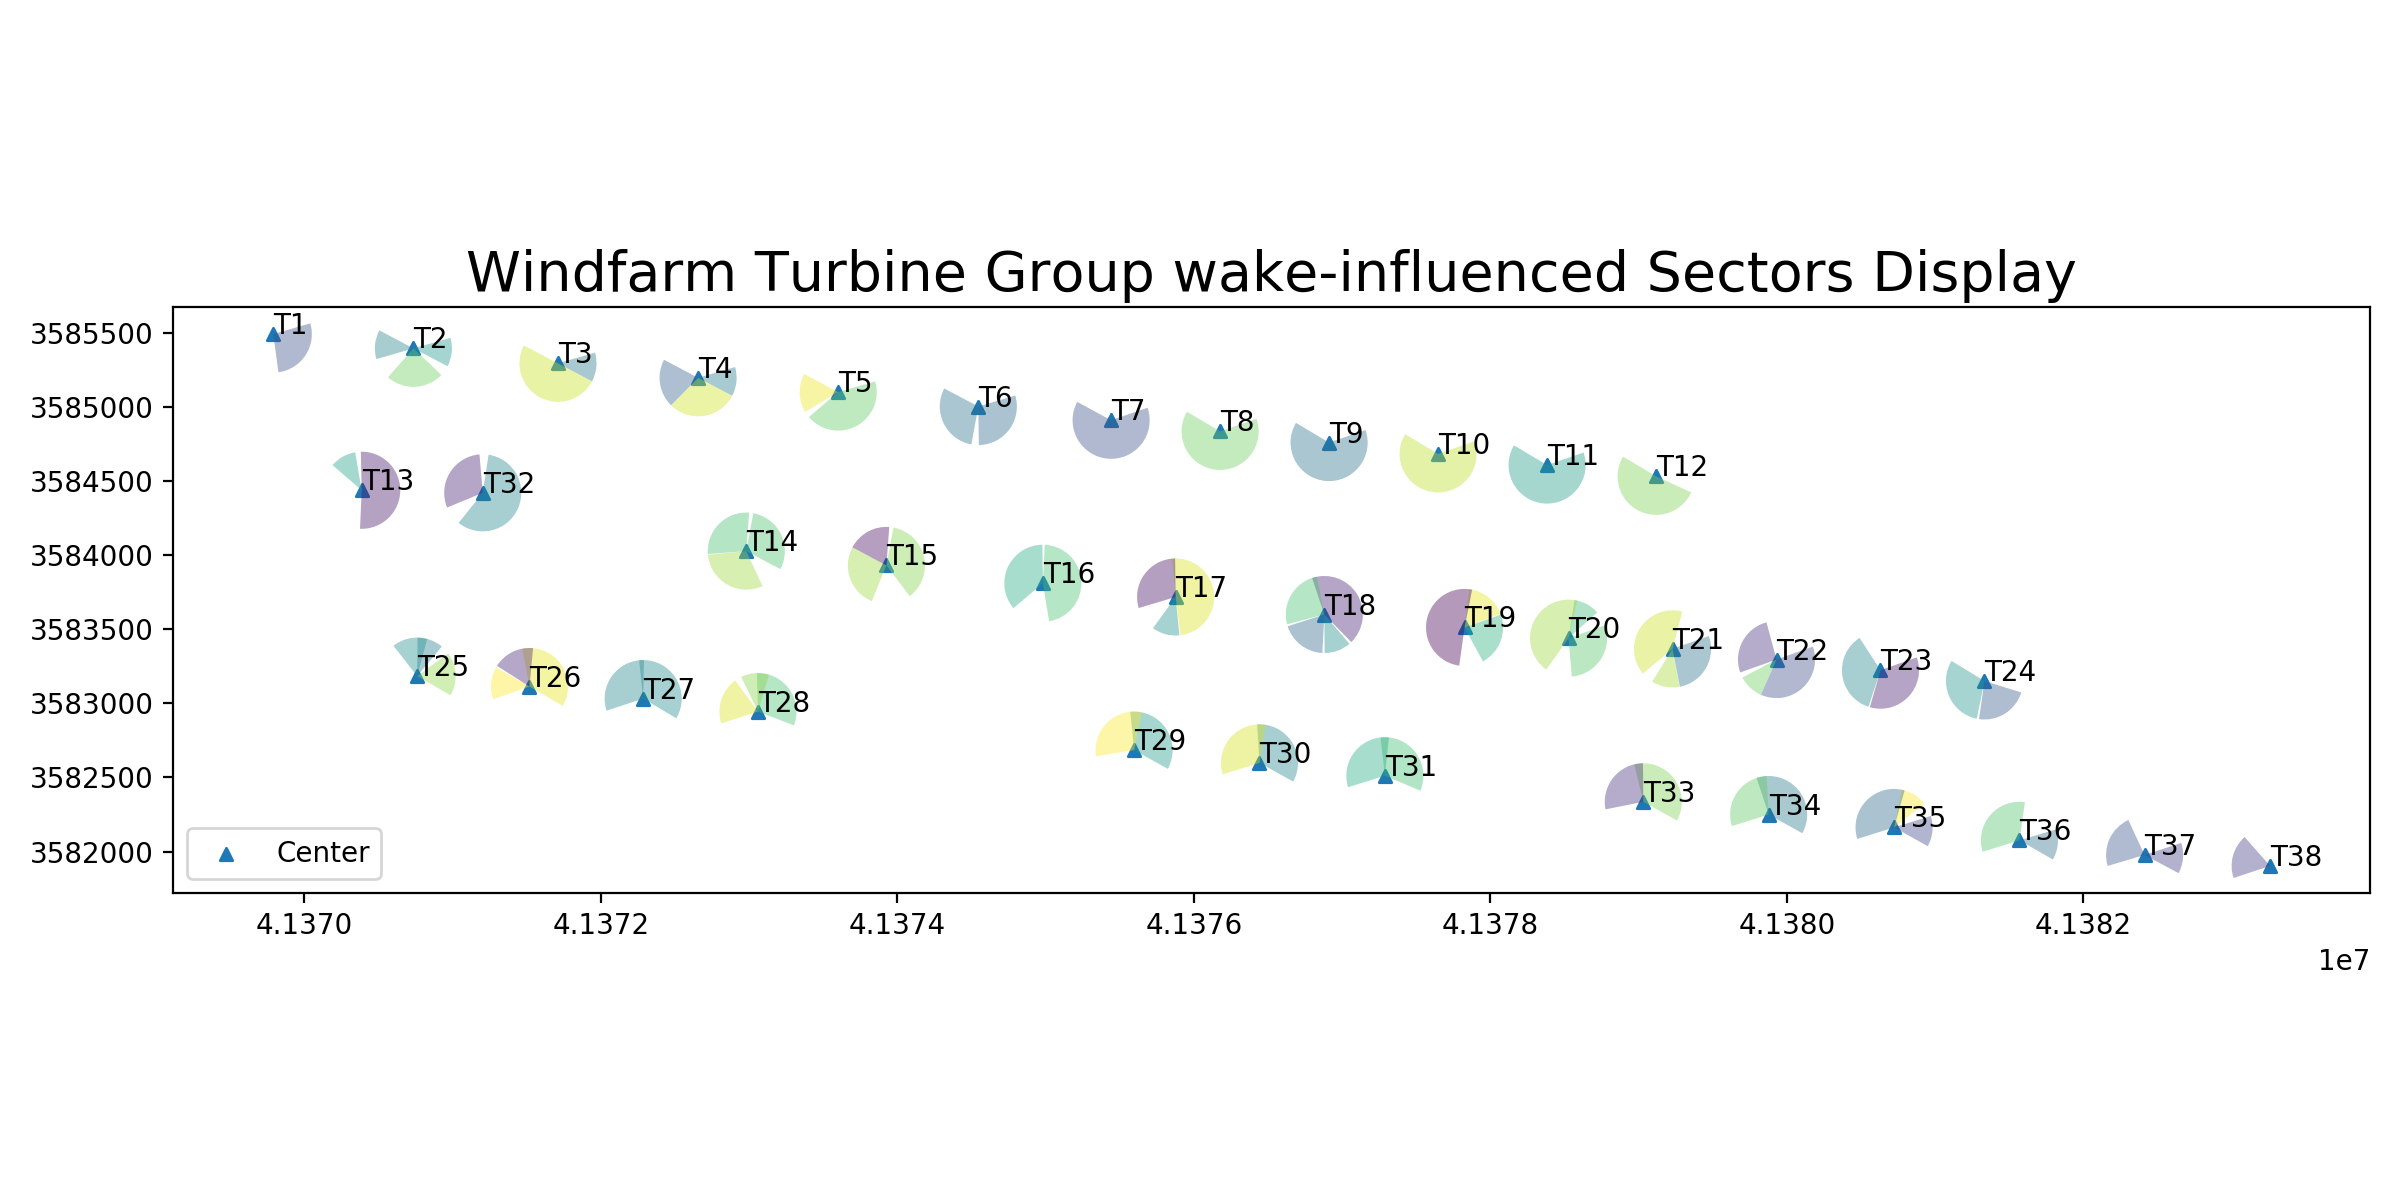
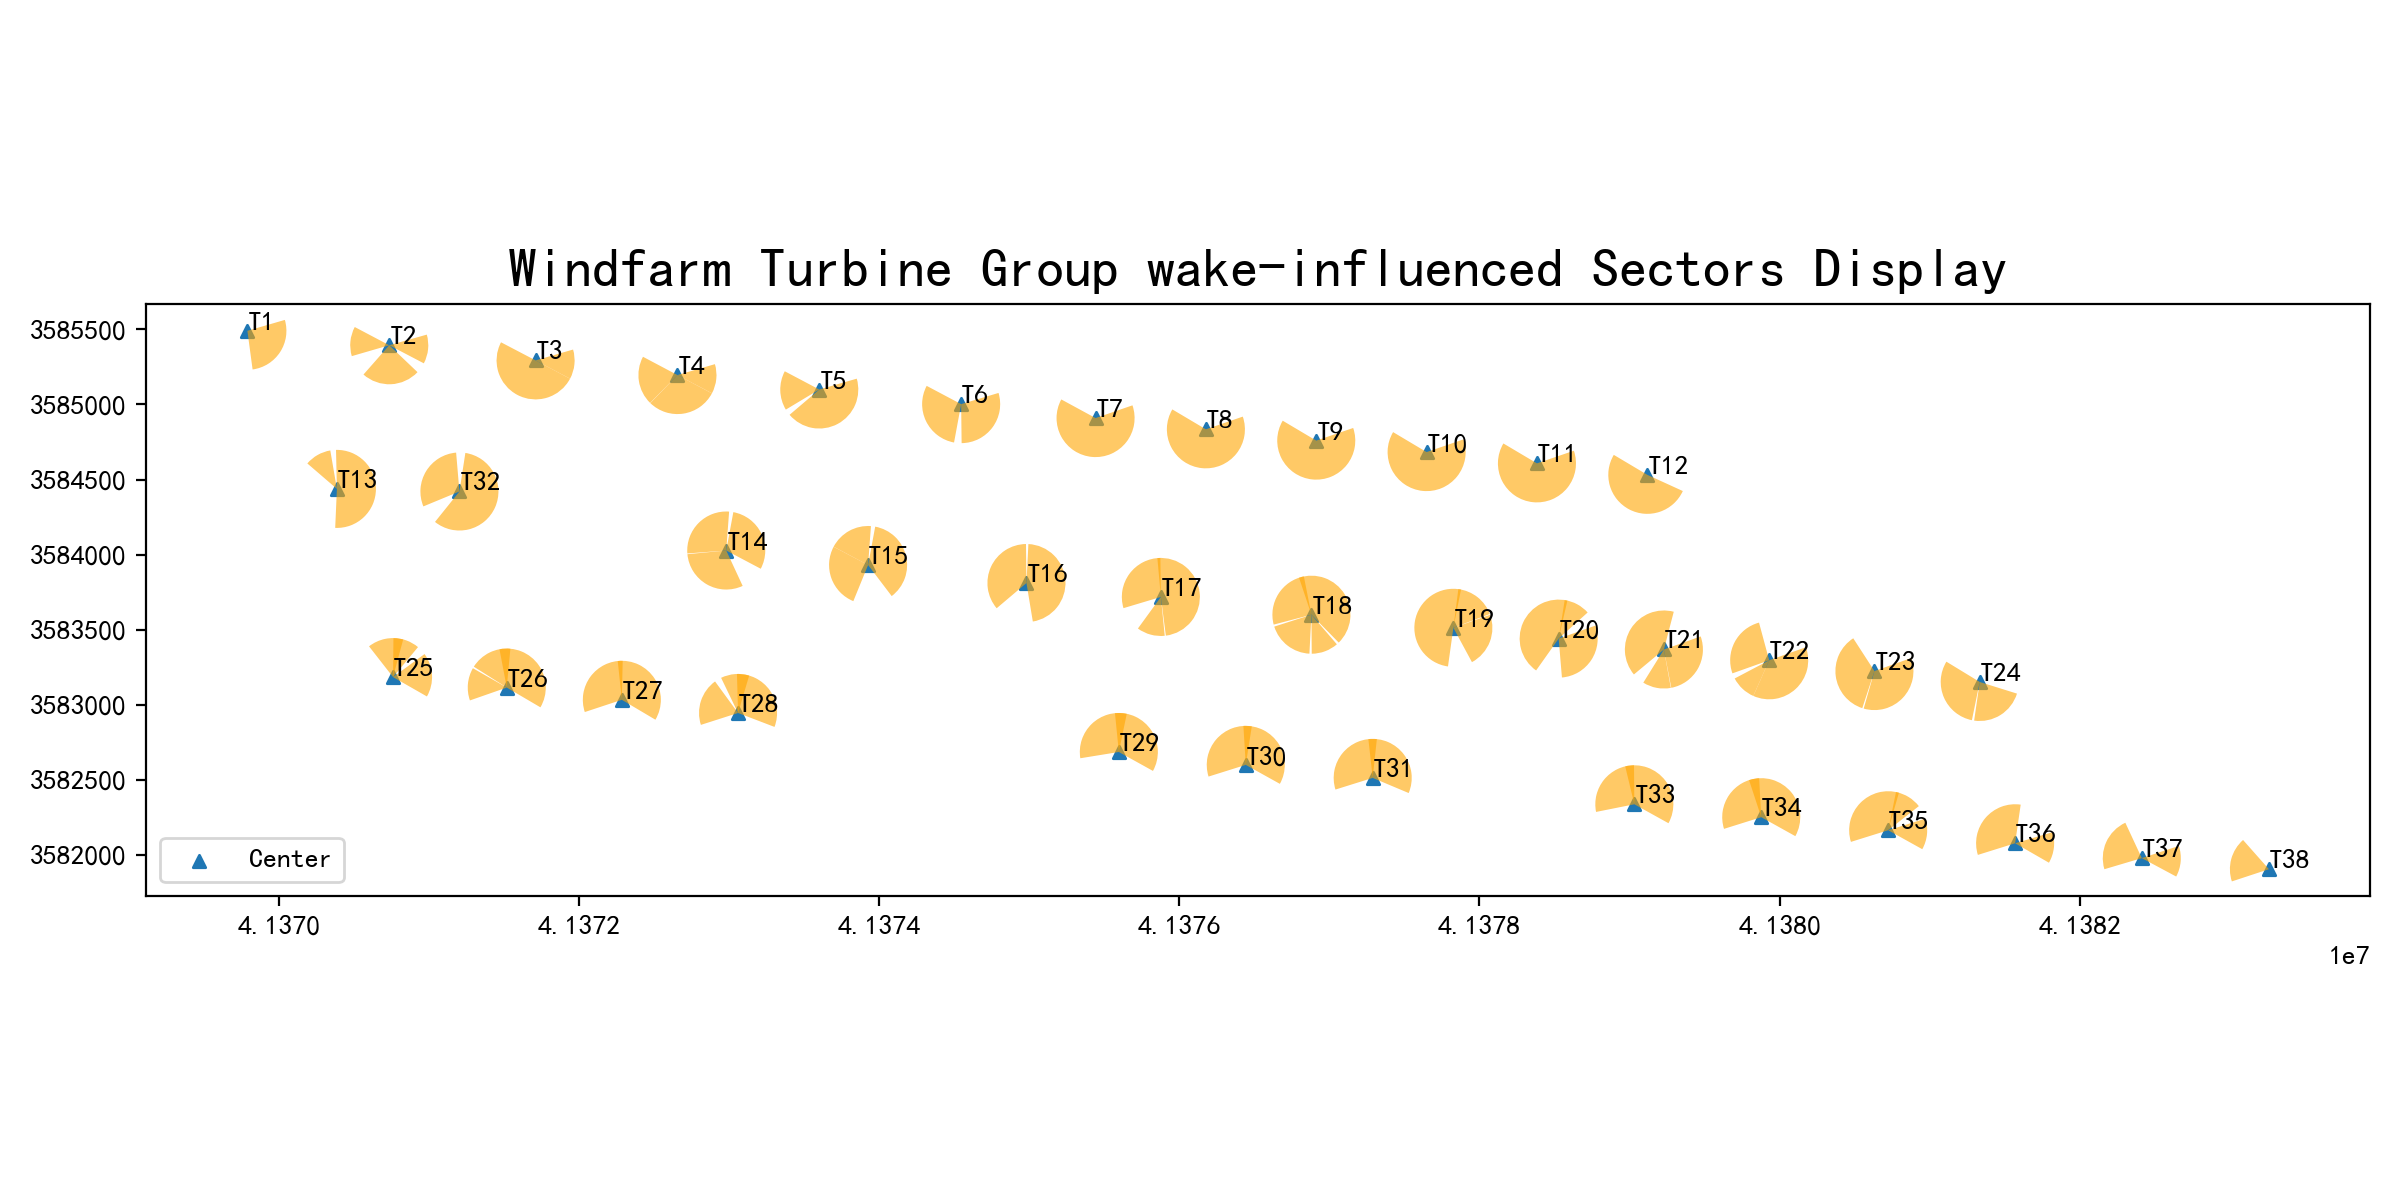
Optimize drawing and color

diff --git a/function/wedges_display.py b/function/wedges_display.py
@@ -4,9 +4,9 @@
 @Created on
 @instruction：
 @Version update log: 用于风机点位尾流扇区展示
+                     2020.3.26优化扇区划分颜色，及绘图展现形式
 """
-import numpy as np
-import intervals as I
+
 import os
 from matplotlib.patches import Wedge, Circle, Polygon
 from matplotlib.collections import PatchCollection
@@ -14,11 +14,11 @@ import matplotlib.pyplot as plt
 
 plt.rcParams['savefig.dpi'] = 200
 plt.rcParams['figure.dpi'] = 100
-plt.rcParams['font.sans-serif'] = ['SimHei']  # 用来正常显示中文标签
+plt.rcParams['font.sans-serif'] = ['SimHei']  # 用来正常显示中文标签,'SimHei'黑体
 plt.rcParams['axes.unicode_minus'] = False  # 用来正常显示负号
 
 
-def wedgeplt(x_axis, y_axis, label, x_i, y_i, rotor, tur_id, sectors, image_property, save_path):
+def wedgeplt(x_axis, y_axis, label, x_i, y_i, rotor, tur_id, patches, image_property, save_path):
     """
     用于【单机位点】尾流影响扇区/测试扇区示意图绘制
     :param x_axis: 全场机位x，平面经度坐标，list/series
@@ -28,7 +28,7 @@ def wedgeplt(x_axis, y_axis, label, x_i, y_i, rotor, tur_id, sectors, image_prop
     :param y_i: 对应绘制扇区机位i，平面经度坐标y，float
     :param rotor: 对应绘制扇区机位i的叶轮直径，list/series
     :param tur_id: 对应绘制扇区机位i的机位编号，str
-    :param sectors: 风能领域0~360顺时针，正北为零，再绘图时候，需转为正东为0逆时针，转换关系[90-原角度区间]再取逆时针就是调换区间位置
+    :param patches:存储楔形wedge
     :param image_property: str, 尾流影响wake-influenced/测试自由流free-flow扇区
     :param save_path: 存储路径
     :return:
@@ -36,27 +36,68 @@ def wedgeplt(x_axis, y_axis, label, x_i, y_i, rotor, tur_id, sectors, image_prop
     fig = plt.figure(figsize=(12, 6), tight_layout=True)
     ax1 = fig.add_subplot(1, 1, 1)
     ax1.scatter(x_axis, y_axis, marker='^', s=20, label='Center')
-    ax1.set_title('Single Turbine {} Sector(s) Display'.format(image_property), fontsize=20)
+    ax1.set_title('{} Turbine {} Sector(s) Display'.format(tur_id, image_property), fontsize=20)
 
     for i in range(0, len(x_axis)):  # 标注机位编号
         ax1.text(x_axis[i], y_axis[i], label[i])
 
-    patches = []  # 存储绘图扇区，画楔形（扇形）
-    radii = 2 * rotor
-    for sector in list(sectors):  # 多扇区处理
-        theta1 = 90 - sector.lower  # 坐标系处理：[90-原角度区间]，再调换区间前后顺序
-        theta2 = 90 - sector.upper  # 坐标系处理：[90-原角度区间]，再调换区间前后顺序
-        wedge = Wedge((x_i, y_i), radii, theta2, theta1)  # 坐标系处理：[90-原角度区间]，再调换区间前后顺序
-        patches.append(wedge)
-    colors = 100 * np.random.rand(len(patches))
-    p = PatchCollection(patches, alpha=0.4)
-    p.set_array(np.array(colors))
+    p = PatchCollection(patches, alpha=0.6)
+    if image_property == 'wake-influenced':
+        # p.set_color(c='orange') # Set both the edgecolor and the facecolor.
+        p.set_edgecolor(c=None)
+        p.set_facecolor(c='orange')
+    elif image_property == 'free-flow':
+        # p.set_color(c='green')
+        p.set_edgecolor(c=None)
+        p.set_facecolor(c='green')
+
     ax1.add_collection(p)
     ax1.legend(fontsize=10, loc='lower left')
     ax1.set_aspect('equal')
     # fig.colorbar(p, ax=ax1)
 
     fig.savefig(os.path.join(save_path, '{}机位{}扇区示意图.png'.format(tur_id, str(image_property))))
+    # plt.show()
+    plt.close("all")
+
+
+def wedgeplt_overall(x_axis, y_axis, label, x_i, y_i, rotor, tur_id, patches_wake, patches_freeflow, save_path):
+    """
+    用于【单机位点】尾流影响扇区/测试扇区示意图绘制
+    :param x_axis: 全场机位x，平面经度坐标，list/series
+    :param y_axis: 全场机位y，平面经度坐标，list/series
+    :param label: 全场机位编号，list/series
+    :param x_i: 对应绘制扇区机位i，平面经度坐标x，float
+    :param y_i: 对应绘制扇区机位i，平面经度坐标y，float
+    :param rotor: 对应绘制扇区机位i的叶轮直径，list/series
+    :param tur_id: 对应绘制扇区机位i的机位编号，str
+    :param patches_wake:存储楔形wedge
+    :param patches_freeflow:存储楔形wedge
+    :param save_path: 存储路径
+    :return:
+    """
+    fig = plt.figure(figsize=(12, 6), tight_layout=True)
+    ax1 = fig.add_subplot(1, 1, 1)
+    ax1.scatter(x_axis, y_axis, marker='^', s=20, label='Center')
+    ax1.set_title('{} Turbine Wake&Freeflow Sector(s) Display'.format(tur_id), fontsize=20)
+
+    for i in range(0, len(x_axis)):  # 标注机位编号
+        ax1.text(x_axis[i], y_axis[i], label[i])
+
+    p_wake = PatchCollection(patches_wake, alpha=0.6)
+    p_wake.set_edgecolor(c=None)
+    p_wake.set_facecolor(c='orange')
+    p_freeflow = PatchCollection(patches_freeflow, alpha=0.6)
+    p_freeflow.set_edgecolor(c=None)
+    p_freeflow.set_facecolor(c='green')
+
+    ax1.add_collection(p_wake)
+    ax1.add_collection(p_freeflow)
+    ax1.legend(fontsize=10, loc='lower left')
+    ax1.set_aspect('equal')
+    # fig.colorbar(p, ax=ax1)
+
+    fig.savefig(os.path.join(save_path, '{}机位尾流&自由流扇区示意图.png'.format(tur_id)))
     # plt.show()
     plt.close("all")
 
@@ -80,13 +121,56 @@ def wedgeplts(x_axis, y_axis, label, patches, image_property, save_path):
     for i in range(0, len(x_axis)):  # 标注机位编号
         ax2.text(x_axis[i], y_axis[i], label[i])
 
-    colors = 100 * np.random.rand(len(patches))
-    p = PatchCollection(patches, alpha=0.4)
-    p.set_array(np.array(colors))
+    p = PatchCollection(patches, alpha=0.6)
+    if image_property == 'wake-influenced':
+        # p.set_color(c='orange') # Set both the edgecolor and the facecolor.
+        p.set_edgecolor(c=None)
+        p.set_facecolor(c='orange')
+    elif image_property == 'free-flow':
+        # p.set_color(c='green')
+        p.set_edgecolor(c=None)
+        p.set_facecolor(c='green')
+
     ax2.add_collection(p)
     ax2.legend(fontsize=10, loc='lower left')
     ax2.set_aspect('equal')
 
     fig.savefig(os.path.join(save_path, '风电场{}扇区示意图.png'.format(str(image_property))))
+    # plt.show()
+    plt.close("all")
+
+
+def wedgeplts_overall(x_axis, y_axis, label, patches_wake, patches_freeflow, save_path):
+    """
+    用于【全场机位点】尾流影响扇区/测试扇区示意图绘制
+    :param x_axis: 全场机位x，平面经度坐标，list/series
+    :param y_axis: 全场机位y，平面经度坐标，list/series
+    :param label: 全场机位编号，list/series
+    :param patches_wake：存储楔形尾流wedge = Wedge((site_info['X(m)'][i], site_info['Y(m)'][i]), radii, theta2, theta1)
+    :param patches_freeflow：存储楔形自由流wedge = Wedge((site_info['X(m)'][i], site_info['Y(m)'][i]), radii, theta2, theta1)
+    :param save_path: 存储路径
+    :return:
+    """
+    fig = plt.figure(figsize=(12, 6), tight_layout=True)
+    ax2 = fig.add_subplot(1, 1, 1)
+    ax2.scatter(x_axis, y_axis, marker='^', s=20, label='Center')
+    ax2.set_title('Windfarm Turbine Group Wake&Freeflow Sectors Display', fontsize=20)
+
+    for i in range(0, len(x_axis)):  # 标注机位编号
+        ax2.text(x_axis[i], y_axis[i], label[i])
+
+    p_wake = PatchCollection(patches_wake, alpha=0.6)
+    p_wake.set_edgecolor(c=None)
+    p_wake.set_facecolor(c='orange')
+    p_freeflow = PatchCollection(patches_freeflow, alpha=0.6)
+    p_freeflow.set_edgecolor(c=None)
+    p_freeflow.set_facecolor(c='green')
+
+    ax2.add_collection(p_wake)
+    ax2.add_collection(p_freeflow)
+    ax2.legend(fontsize=10, loc='lower left')
+    ax2.set_aspect('equal')
+
+    fig.savefig(os.path.join(save_path, '风电场尾流&自由流扇区示意图.png'))
     # plt.show()
     plt.close("all")

diff --git a/main.py b/main.py
@@ -3,7 +3,7 @@
 @author: luqi
 @Created on
 @instruction：
-@Version update log:
+@Version update log: 2020.3.26优化扇区划分颜色，及绘图展现形式
 """
 
 import intervals as I
@@ -33,10 +33,12 @@ site_info = pd.read_csv('input_windfarm_info/site_info.csv', header=0)
 windfarm_fig = tur_site_display.turbinesite(site_info['X(m)'], site_info['Y(m)'], site_info['LABEL'],
                                             site_info['rotor diameter(m)'], output_path)
 
-writer = pd.ExcelWriter(os.path.join(output_path, 'Detailed-analysis-results_{}.xlsx'.format(report_version_time)))
-wake_patches = []  # 存储尾流影响扇区楔形绘图信息
-testing_patches = []  # 存储自由流扇区楔形绘图信息
+writer = pd.ExcelWriter(os.path.join(output_path, 'Detailed-analysis-results_{}.xlsx'))
+wake_patches_all = []  # 存储尾流影响扇区楔形绘图信息
+free_patches_all = []  # 存储自由流扇区楔形绘图信息
 for i in range(len(site_info['LABEL'])):  # 第一层主循环，循环所有风机的测试扇区
+    wake_patches = []  # 存储尾流影响扇区楔形绘图信息
+    free_patches = []  # 存储自由流扇区楔形绘图信息
     result = site_info[['LABEL', 'X(m)', 'Y(m)']]
     influence_sectors = I.empty()
     for j in range(len(site_info['LABEL'])):  # 第二层循环，计算i号风机与所有其他风机相关位置关系、受影响扇区，并确定i号风机测试扇区
@@ -67,33 +69,40 @@ for i in range(len(site_info['LABEL'])):  # 第一层主循环，循环所有风
     site_info.loc[i, 'testing_sectors'] = str(testing_sectors)
     radii = 2 * site_info['rotor diameter(m)'][i]
     for sector in list(influence_sectors):
-        theta1 = 90 - sector.lower
+        theta1 = 90 - sector.lower  # 调整到笛卡尔坐标系的画图方向
         theta2 = 90 - sector.upper
         wedge = Wedge((site_info['X(m)'][i], site_info['Y(m)'][i]), radii, theta2, theta1)
+        wake_patches_all.append(wedge)
         wake_patches.append(wedge)
     for sector in list(testing_sectors):
         theta1 = 90 - sector.lower
         theta2 = 90 - sector.upper
         wedge = Wedge((site_info['X(m)'][i], site_info['Y(m)'][i]), radii, theta2, theta1)
-        testing_patches.append(wedge)
+        free_patches_all.append(wedge)
+        free_patches.append(wedge)
 
     result.to_excel(writer, sheet_name='WTG{}'.format(site_info['LABEL'][i]), startrow=0, startcol=0, index=False)
 
     """【单机位点】尾流影响扇区/测试扇区示意图绘制"""
     wedges_display.wedgeplt(site_info['X(m)'], site_info['Y(m)'], site_info['LABEL'], site_info['X(m)'][i],
                             site_info['Y(m)'][i], site_info['rotor diameter(m)'][i], site_info['LABEL'][i],
-                            influence_sectors, 'wake-influenced', output_path)
+                            wake_patches, 'wake-influenced', output_path)
     wedges_display.wedgeplt(site_info['X(m)'], site_info['Y(m)'], site_info['LABEL'], site_info['X(m)'][i],
                             site_info['Y(m)'][i], site_info['rotor diameter(m)'][i], site_info['LABEL'][i],
-                            testing_sectors, 'free-flow', output_path)
-site_info.to_excel(writer, sheet_name='Summary'.format(site_info['LABEL'][i]), startrow=0, startcol=0, index=False)
+                            free_patches, 'free-flow', output_path)
+    wedges_display.wedgeplt_overall(site_info['X(m)'], site_info['Y(m)'], site_info['LABEL'], site_info['X(m)'][i],
+                                    site_info['Y(m)'][i], site_info['rotor diameter(m)'][i], site_info['LABEL'][i],
+                                    wake_patches, free_patches, output_path)
+site_info.to_excel(writer, sheet_name='Summary', startrow=0, startcol=0, index=False)
 writer.close()
 
 """【全场机位点】尾流影响扇区/测试扇区示意图绘制"""
-wedges_display.wedgeplts(site_info['X(m)'], site_info['Y(m)'], site_info['LABEL'], wake_patches, 'wake-influenced',
+wedges_display.wedgeplts(site_info['X(m)'], site_info['Y(m)'], site_info['LABEL'], wake_patches_all, 'wake-influenced',
                          output_path)  # 输出全场尾流影响扇区情况
-wedges_display.wedgeplts(site_info['X(m)'], site_info['Y(m)'], site_info['LABEL'], testing_patches, 'free-flow',
+wedges_display.wedgeplts(site_info['X(m)'], site_info['Y(m)'], site_info['LABEL'], free_patches_all, 'free-flow',
                          output_path)  # 输出全场自由流扇区影响情况
+wedges_display.wedgeplts_overall(site_info['X(m)'], site_info['Y(m)'], site_info['LABEL'], wake_patches_all,
+                                 free_patches_all, output_path)  # 输出全场尾流/自由流扇区影响情况
 
 end = timeit.default_timer()
 print('Running time: %s Seconds' % (end - start))

diff --git a/README.md b/README.md
@@ -1,4 +1,4 @@
-# windturbine_wake_effect_analysis
+# windTurbine_wake_effect_analysis
 
 Wake influence analysis on wind turbine（single or group), helping to determin the free-flow or wake-affected sectors
 based on IEC61400-12.
@@ -7,6 +7,7 @@ based on IEC61400-12.
 Some of the main results are listed below:
 
 ## Plot Output
+
 1. Example of windfarm turbine sites display
 ![wind-turbine-site](picture_md/风电场机位、机型示意图.png)
 
@@ -16,15 +17,23 @@ Some of the main results are listed below:
 
 
 3. Example of single turbine wake-influenced sector(s) display
-![T35-wake-influenced](picture_md/T35机位wake-influenced扇区示意图.png)
+    ![T35-wake-influenced](picture_md/T35机位wake-influenced扇区示意图.png)
 
+4. Example of single turbine wake-influenced sector(s) &free-flow sector(s) display
 
-4. Windfarm turbine group free-flow sectors display
-![windfarm-free-flow](picture_md/风电场free-flow扇区示意图.png)
+     ![T35机位尾流&自由流扇区示意图](picture_md/T35机位尾流&自由流扇区示意图.png)
 
+5. WindFarm turbine group free-flow sectors display
+   ![windfarm-free-flow](picture_md/风电场free-flow扇区示意图.png)
 
-5. Windfarm turbine group wake-influenced sectors display
-![windfarm-wake-influenced](picture_md/风电场wake-influenced扇区示意图.png)
+6. WindFarm turbine group wake-influenced sectors display
+   ![windfarm-wake-influenced](picture_md/风电场wake-influenced扇区示意图.png)
+
+7. windFarm wake-influenced sector(s) &free-flow sector(s) display
+
+   ![风电场尾流&自由流扇区示意图](picture_md/风电场尾流&自由流扇区示意图.png)
+
+   
 
 
 ## Analysis Output
